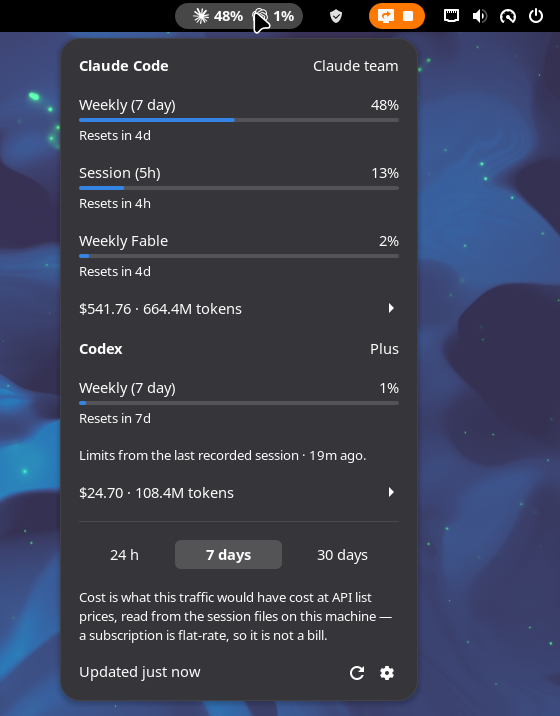
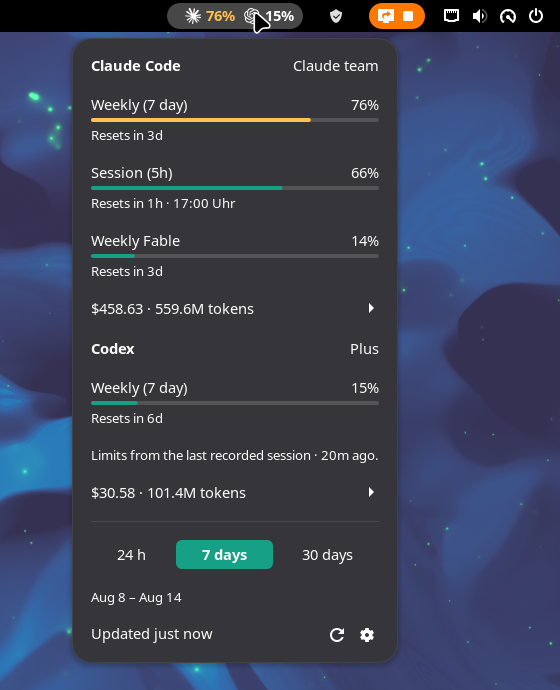
docs: refresh the menu screenshot for 1.2.0
Created with AI. Verified by a human.

diff --git a/docs/DEVELOPMENT.md b/docs/DEVELOPMENT.md
@@ -55,15 +55,16 @@ than quietly pricing it at zero.
 
 ## Looking at the UI without touching your session
 
-`tools/shoot.sh` starts a headless GNOME Shell on a virtual monitor with a throwaway XDG home —
-so no other extension loads and the real desktop's dconf is untouched — enables this extension,
-drives the pointer through Mutter's RemoteDesktop interface and captures frames from its ScreenCast
-PipeWire stream:
+`tools/shoot.sh` re-executes itself on a private D-Bus session and starts a headless GNOME Shell
+on a virtual monitor with a throwaway XDG home — so no other extension loads and the real
+desktop's dconf and session bus are untouched — enables this extension, drives the pointer through
+Mutter's RemoteDesktop interface and captures frames from its ScreenCast PipeWire stream:
 
 ```sh
 make install
-dbus-run-session -- ./tools/shoot.sh --click 1095,12:menu --click 1030,308:expanded
+./tools/shoot.sh --click 1095,12:menu --click 1030,308:expanded
 # frames land in /tmp/aiu-shots/
+# docs/menu.png is the menu frame cropped to 560x690+840+0
 ```
 
 GNOME 49+ refuses `org.gnome.Shell.Screenshot` for headless sessions and no longer exposes an
